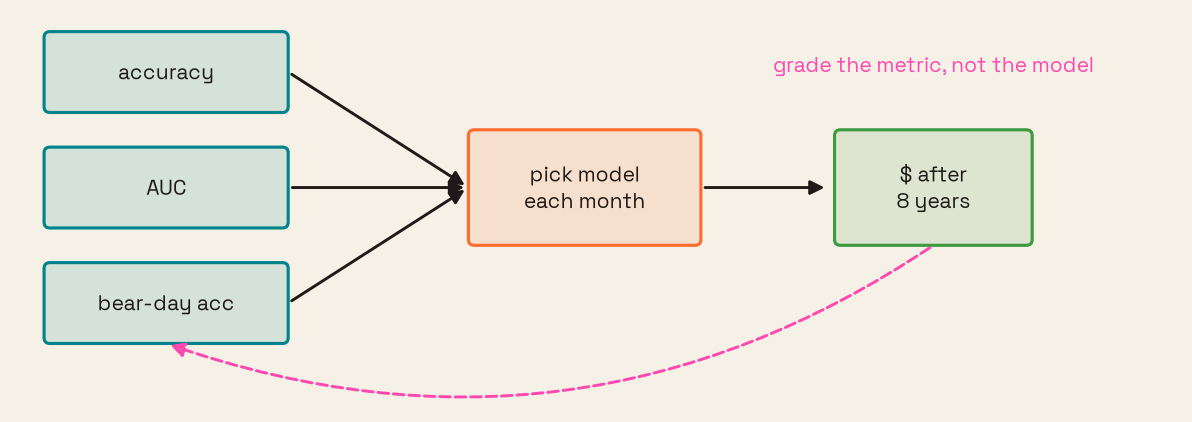
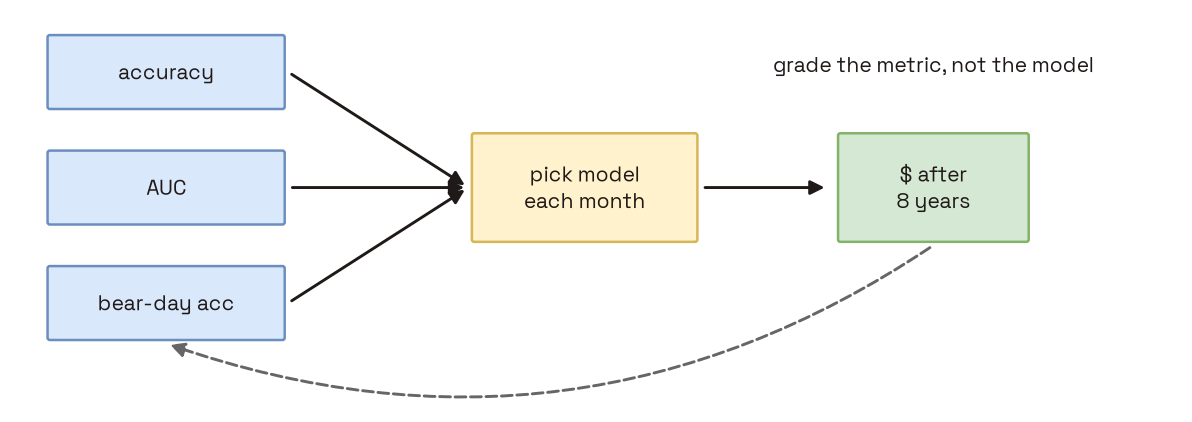
Slides: plain flowchart style for diagram mockups

diff --git a/slides/mockups.py b/slides/mockups.py
@@ -11,12 +11,13 @@ from matplotlib.patches import FancyArrowPatch, FancyBboxPatch  # noqa: E402
 from evalsq.plots import INK  # noqa: E402,F401  (import applies the riso palette, paper and font rcParams)
 
 OUT = Path(__file__).parent
-# Same risograph inks as evalsq/plots.py.
-BLUE, ORANGE, GREEN, GREY, RED = "#00838A", "#FF6C2F", "#3D9A3F", "#5E554F", "#FF48B0"
+# Plain draw.io flowchart look: (fill, edge) pairs. Default box, highlighted box, outcome box.
+BLUE, ORANGE, GREEN, RED = ("#DAE8FC", "#6C8EBF"), ("#FFF2CC", "#D6B656"), ("#D5E8D4", "#82B366"), ("#FFF2CC", "#D6B656")
+GREY = "#666666"
 
 
 def canvas(w=10, h=3.2):
-    fig, ax = plt.subplots(figsize=(w, h))
+    fig, ax = plt.subplots(figsize=(w, h), facecolor="white")
     ax.set_xlim(0, w)
     ax.set_ylim(0, h)
     ax.axis("off")
@@ -24,9 +25,10 @@ def canvas(w=10, h=3.2):
 
 
 def box(ax, x, y, text, w=1.8, h=0.8, color=BLUE, fs=11, dashed=False):
-    ax.add_patch(FancyBboxPatch((x - w / 2, y - h / 2), w, h, boxstyle="round,pad=0.05",
-                                fc=color + "22", ec=color, lw=1.5, ls="--" if dashed else "-"))
-    ax.text(x, y, text, ha="center", va="center", fontsize=fs)
+    fc, ec = color
+    ax.add_patch(FancyBboxPatch((x - w / 2, y - h / 2), w, h, boxstyle="round,pad=0.02",
+                                fc=fc, ec=ec, lw=1.2, ls="--" if dashed else "-"))
+    ax.text(x, y, text, ha="center", va="center", fontsize=fs, color=INK)
 
 
 def arrow(ax, a, b, color=INK, rad=0.0, ls="-", text=None, toff=(0, 0.2)):
@@ -37,7 +39,7 @@ def arrow(ax, a, b, color=INK, rad=0.0, ls="-", text=None, toff=(0, 0.2)):
 
 
 def save(fig, name):
-    fig.savefig(OUT / name, dpi=150, bbox_inches="tight")
+    fig.savefig(OUT / name, dpi=150, bbox_inches="tight", facecolor="white")
     plt.close(fig)
 
 
@@ -51,9 +53,9 @@ def pipeline():
         arrow(ax, (a + 0.95, 2.2), (b - 0.95, 2.2))
     box(ax, 9.3, 2.2, "$", w=0.8, color=GREEN, fs=14)
     arrow(ax, (8.7, 2.2), (8.85, 2.2))
-    ax.text(5.5, 2.85, "?", ha="center", fontsize=22, color=RED, weight="bold")
-    arrow(ax, (9.3, 1.75), (5.5, 1.75), color=GREEN, rad=-0.35, ls="--")
-    ax.text(7.4, 0.7, "real outcome: arrives L days late", ha="center", fontsize=10, color=GREEN)
+    ax.text(5.5, 2.85, "?", ha="center", fontsize=22, color=INK, weight="bold")
+    arrow(ax, (9.3, 1.75), (5.5, 1.75), color=GREY, rad=-0.35, ls="--")
+    ax.text(7.4, 0.7, "real outcome: arrives L days late", ha="center", fontsize=10, color=GREY)
     ax.text(5.5, 0.2, "we decide on the bench because the money is not in yet", ha="center", fontsize=9, color=GREY)
     save(fig, "mock_pipeline.png")
 
@@ -62,12 +64,12 @@ def timeline():
     """Slide 5: one month of the worked example. Decide at t on data up to t-L, trade, see P&L L days later."""
     fig, ax = canvas(10, 2.6)
     ax.plot([0.5, 9.5], [1.3, 1.3], color=INK, lw=1.2)
-    ax.add_patch(FancyBboxPatch((0.6, 1.15), 2.8, 0.3, boxstyle="square,pad=0", fc=BLUE + "33", ec="none"))
-    ax.text(2.0, 1.6, "labels we can see", ha="center", fontsize=9, color=BLUE)
-    ax.add_patch(FancyBboxPatch((3.4, 1.15), 1.4, 0.3, boxstyle="square,pad=0", fc=GREY + "33", ec="none"))
+    ax.add_patch(FancyBboxPatch((0.6, 1.15), 2.8, 0.3, boxstyle="square,pad=0", fc=BLUE[0], ec=BLUE[1]))
+    ax.text(2.0, 1.6, "labels we can see", ha="center", fontsize=9, color=INK)
+    ax.add_patch(FancyBboxPatch((3.4, 1.15), 1.4, 0.3, boxstyle="square,pad=0", fc="#F5F5F5", ec=GREY))
     ax.text(4.1, 1.6, "L days: not in yet", ha="center", fontsize=9, color=GREY)
-    ax.add_patch(FancyBboxPatch((4.8, 1.15), 3.0, 0.3, boxstyle="square,pad=0", fc=ORANGE + "33", ec="none"))
-    ax.text(6.3, 1.6, "month t: deployed model trades", ha="center", fontsize=9, color=ORANGE)
+    ax.add_patch(FancyBboxPatch((4.8, 1.15), 3.0, 0.3, boxstyle="square,pad=0", fc=ORANGE[0], ec=ORANGE[1]))
+    ax.text(6.3, 1.6, "month t: deployed model trades", ha="center", fontsize=9, color=INK)
     for x, t in [(3.4, "t-L\n"), (4.8, "t\nretrain + pick"), (7.8, "t+1\nnext pick"), (9.2, "t+1+L\nmonth t P&L seen")]:
         ax.plot([x, x], [1.1, 1.5], color=INK, lw=1)
         ax.text(x, 0.55, t, ha="center", fontsize=9)
@@ -83,17 +85,17 @@ def bench_of_bench():
     box(ax, 4.9, 1.9, "pick model\neach month", w=1.9, h=0.9, color=ORANGE, fs=10)
     arrow(ax, (5.9, 1.9), (7.0, 1.9))
     box(ax, 7.9, 1.9, "$ after\n8 years", w=1.6, h=0.9, color=GREEN, fs=10)
-    arrow(ax, (7.9, 1.4), (1.3, 0.55), color=RED, rad=-0.25, ls="--")
-    ax.text(7.9, 2.9, "grade the metric, not the model", ha="center", fontsize=10, color=RED)
+    arrow(ax, (7.9, 1.4), (1.3, 0.55), color=GREY, rad=-0.25, ls="--")
+    ax.text(7.9, 2.9, "grade the metric, not the model", ha="center", fontsize=10, color=INK)
     save(fig, "mock_bench_of_bench.png")
 
 
 def heuristics_map():
     """Slide 7: the three checks, ordered familiar -> unusual, each tied to what it asks."""
     fig, ax = canvas(10, 2.6)
-    items = [("H1  Validity", "does the score track $?", GREEN),
+    items = [("H1  Validity", "does the score track $?", BLUE),
              ("H2  Temporal holdout", "does the ranking survive time?", BLUE),
-             ("H3  Meta-model", "is the score just the regime?", RED)]
+             ("H3  Meta-model", "is the score just the regime?", BLUE)]
     for i, (h, q, c) in enumerate(items):
         x = 1.7 + i * 3.3
         box(ax, x, 1.6, h, w=2.9, h=0.7, color=c, fs=11)
